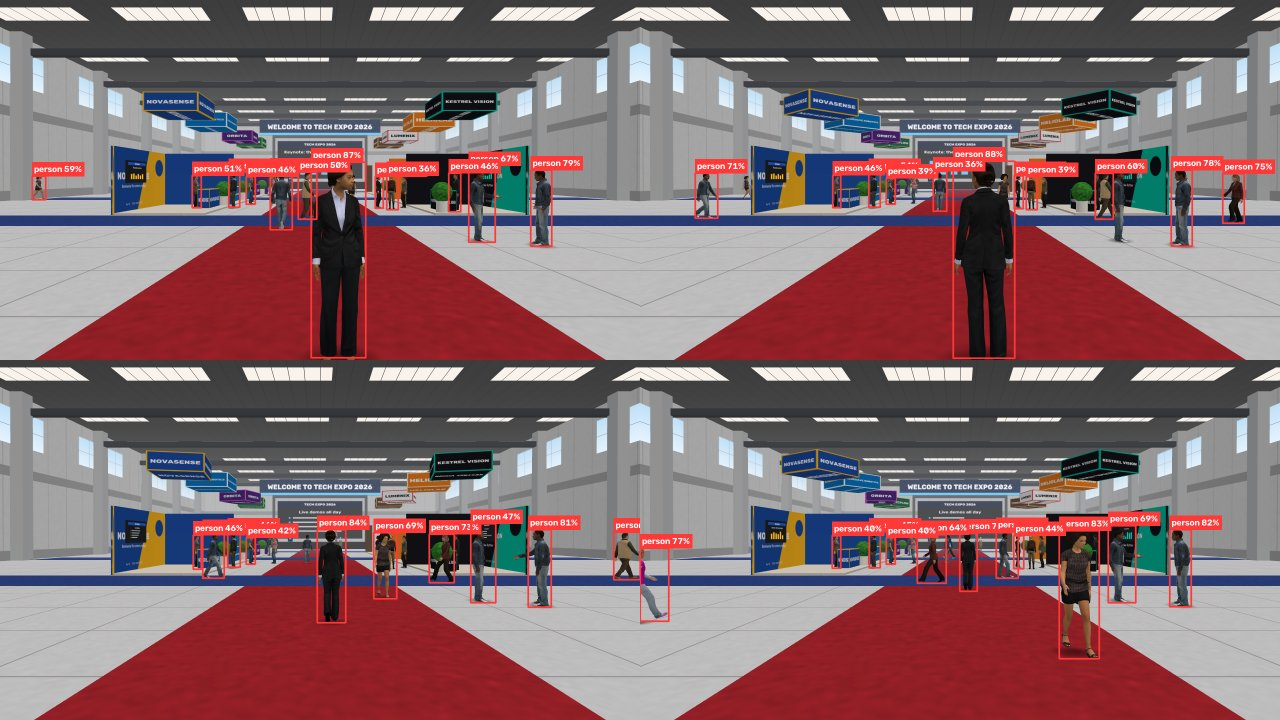
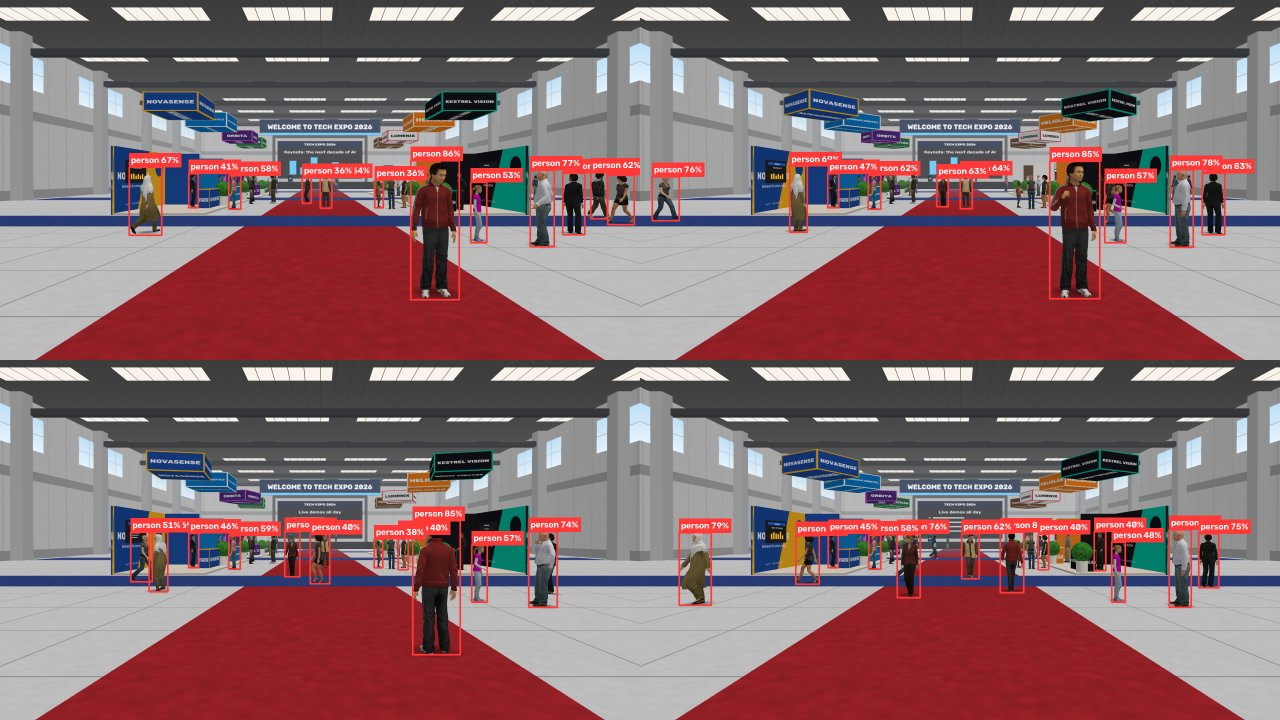
Refresh the fair previews after the review fixes
Claude-Session: https://claude.ai/code/session_01B99J6LuDFd7VnzjjcAYtWv

diff --git a/docs/previews/README.md b/docs/previews/README.md
@@ -20,5 +20,11 @@ work goes on. The people are avatars from the
   up to the camera keeps her head lowered and turned aside, the man behind her
   turns around.
 - `fair_animated.jpg`: the default trade-fair scene with 33 animated 3D people
-  (at 0, 4, 8 and 12 s) and YOLO's detections: people approaching the camera
-  and turning around, walking by, wandering, chatting, staffing booths.
+  (at 0, 4, 8 and 12 s) and YOLO's detections (9-14 people found per frame):
+  people approaching the camera and turning around, walking by, wandering,
+  chatting, staffing booths.
+- `fair_closeups.jpg`: close-ups from the same scene after the review fixes:
+  exhibitors on their booth platforms, a visitor at a booth, people walking
+  towards the camera on the red carpet with their feet in frame and on the
+  floor, walkers on the blue aisle carpet with their blob shadows, a chat group
+  with a child, wanderers.
